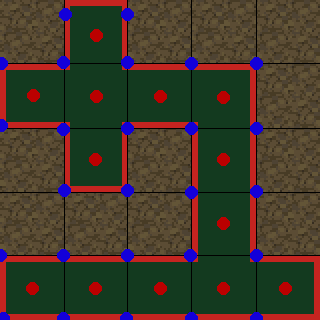
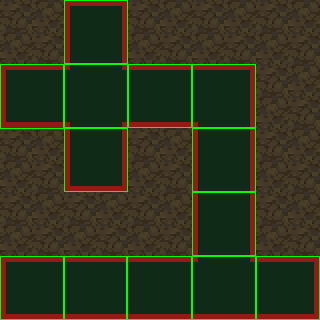
Fixed shit, changed figures, much wow.

diff --git a/sections/modules/generating_levels/generating_levels.tex b/sections/modules/generating_levels/generating_levels.tex
@@ -1,38 +1,39 @@
-In this chapter the process of loading individual levels will be explained. This involves loading the level, encoded as an image in the PNG format, parsing values from this format, and finally placing tiles in the game world representing those values.
+In this chapter the process of loading individual levels will be explained.
+This involves loading the level, encoded as an image in the PNG format, parsing values from this format, and finally placing tiles in the game world representing those values.
 
 \section{Designing and loading levels}
 Level creation is an important aspect when developing a game, and for this project there are different elements to consider for the level creation workflow.
 \begin{itemize}
     \item The development process is agile, meaning the level should be easily modifiable to adapt to changes
     \item Game balancing, requiring the production of levels at a sufficient pace in order to quickly iterate on game balancing topics, such as strategies for a particular map layout
-    \item The project have no dedicated level designer that have the time allocated to finely tune and manually design levels
+    \item The project has no dedicated level designer whom we can allocate to finely tune and manually design levels
 \end{itemize}
-These elements sets up some different challenges to the project.  
-To keep up with potential changes a fast way to create levels is preferred for the following reasons:
+These elements sets up some different challenges to the project.
+To keep up with potential changes, a quick way to create levels is preferred for the following reasons:
 \begin{itemize}
-    \item Designing levels and placing gameobject in the Editor does not afford quick iterations, as required by our development process
+    \item Designing levels and placing gameobjects in the Editor does not afford quick iterations, as required by our development process
     \item The Editor does not afford easy refactoring of large levels, in that objects must be moved or replaced manually. \textit{Large} is relative, but for our purposes it could be upwards +10.000 gameobjects
-    \item Individual levels would have to reside in individual \texttt{Scene} files, increasing the complexity of collaboration since scenefiles does not  automatically merge correct in version controls
+    \item Individual levels would have to reside in individual \texttt{Scene} files, increasing the complexity of collaboration since scenefiles does not  automatically merge correct in version control systems.
 \end{itemize}
 
-While there are different approaches for circumventing the above inconveniences, our solution is to encode the layout of each individual level in an external file which is then loaded and interpreted. 
-Historically, game developers have often used this approach, usually encoded in some in-house binary format. \todoanders{Brian, add ref here}
-While customized in-house format would give more flexibility, but it would also give more work if the players should have the option to create their own levels, as a custom level editor would be necessary.
+While there are different approaches for circumventing the above inconveniences, our solution is to encode the layout of each individual level in an external file which is then loaded and interpreted.
+Historically, game developers have often used this approach, usually encoded in some in-house binary format~\cite{quake-bsp-format}.
+While customized in-house format would offer significant flexibility, but it would also result in additional development, if the players should have the option to create their own levels, as a custom level editor would be necessary.
 Instead the choice of encoding the map in the PNG (Portable Network Graphics) format was made for the following reasons:
 \begin{itemize}
     \item The PNG format is ubiquitous, in that there exists support for it almost anywhere, including in Unity3d - both in terms of API and the editor itself.
     \item It being ubiquitous means that we do not have to develop additional software in order to edit levels - most mainstream image editors support the PNG format.
     \item The PNG allows us to encode \textit{enough} information. 
-    	\textit{Enough} being relative, but each colorchannel for each individual pixel offers 1 \texttt{byte} of information. 
+    	\textit{Enough} being relative, but each colorchannel for each individual pixel offers 1 \texttt{byte} of information.
     	With each pixel being encoded with RGBA (red, green, blue and alpha) channels that gives us a total of 4 \texttt{bytes} of information, for each pixel.
 \end{itemize}
-Using the PNG format, it is only a matter of specifying \textit{what} a particular color should encode and interpreting that color when loading a level. 
+Using the PNG format, it is only a matter of specifying \textit{what} a particular color should encode and interpreting that color when loading a level.
 As an example, the following could specify how colors could be specified to encode information about a level:
 \begin{itemize}
     \item Black would be ground
     \item Green is grass
-    \item Red is building floor, and
-    \item Yellow being building walls.
+    \item Red is building floor
+    \item And yellow being building walls.
 \end{itemize}
 One obvious shortcoming from the above example is the lack of variation - maybe one would like to be able to specify different types of walls or floors. This could however be mitigated by either specifying more colors or by interpreting a color differently depending on the context of the pixel.
 To introduce variety into our levels, we use the latter approach for some colors, which we will describe later in this chapter.
@@ -42,7 +43,7 @@ Having decided on the format and encoded color values, we can design levels such
 
 \begin{figure}[H]
     \centering
-    \includegraphics{figures/generating_levels/map.png}
+    \includegraphics[width=1\textwidth]{figures/generating_levels/map.png}
     \caption{A PNG image encoding a level}
     \label{fig:png_map}
 \end{figure}
@@ -120,48 +121,48 @@ The color values can then be interpreted into distinct integer values in a two-d
     \end{tabular}
     \caption{Interpreting a PNG map image into a two-dimensional array}\label{fig:png_to_array} 
 \end{figure}
-Values are then further separated into a new two-dimensional array consisting of only each individual value, as illustrated on the right side in Figure \ref{fig:png_to_array}.  
+Values are then further separated into a new two-dimensional array consisting of only each individual value, as illustrated on the right side in Figure \ref{fig:png_to_array}.
 The data within those arrays are what we use to generate tiles and some game entities within the gameworld.
 
 \section{Generating level backdrop}
 As explained previously, our game is a top-down 2D action game.
 Important to note is the top-down 2D aspect of it when we are to generate our levels.
-A historical and still prevalent technique for 2D games, is using a tiling approach for the layout of both the backdrop of the level and entities within it. 
+A historical, and still prevalent technique for 2D games, is using a tiling approach for the layout of both the backdrop of the level and entities within it.
 Several different approaches to tiling have been used in games, including squares, isometric and hexagonal tiles.
 Figures~\ref{fig:civ-1_square},~\ref{fig:civ-2_iso}~and~\ref{fig:wesnoth_hex}
 show examples of games using each of the mentioned techniques of tiling.
 
 \begin{figure}[H]
     \centering
-    \includegraphics[scale=0.4]{figures/generating_levels/civ-1_square.png}
-    \caption{Civilizations 1, using squares as tiles}\label{fig:civ-1_square} 
+    \includegraphics[width=0.5\textwidth]{figures/generating_levels/civ-1_square.png}
+    \caption{Civilizations 1, using squares as tiles}\label{fig:civ-1_square}
 \end{figure}
 
 \begin{figure}[H]
     \centering
-    \includegraphics[scale=0.4]{figures/generating_levels/civ-2_iso.png}
-    \caption{Civilizations 2, using the isometric technique}\label{fig:civ-2_iso} 
+    \includegraphics[width=0.5\textwidth]{figures/generating_levels/civ-2_iso.png}
+    \caption{Civilizations 2, using the isometric technique}\label{fig:civ-2_iso}
 \end{figure}
 
 \begin{figure}[H]
     \centering
-    \includegraphics[scale=0.4]{figures/generating_levels/wesnoth_hex.png}
-    \caption{Battle of Wesnoth, using a hexagonal tiling technique}\label{fig:wesnoth_hex} 
+    \includegraphics[width=0.5\textwidth]{figures/generating_levels/wesnoth_hex.png}
+    \caption{Battle of Wesnoth, using a hexagonal tiling technique}\label{fig:wesnoth_hex}
 \end{figure}
 Since the individual techniques mostly impact the visual appearance of the game, the underlying data structures remain the same.
 We have chosen to apply the most straightforward tiling technique: square tiles.
 \\
 \\
-The first naive implementation that we prototyped, was to iterate through the two-dimensional map and place tiles corresponding to the values, with tiles being \texttt{sprites} in the gameworld. 
-In Unity sprites needs to be assigned a \texttt{sprite renderer} component which in turn needs to be attached a \texttt{gameobject}. 
-This effectively means that for each tile an instantiation a gameobject has to be made, which easily can get expensive in computation.
+The first naive implementation that we prototyped, was to iterate through the two-dimensional map and place tiles corresponding to the values, with tiles being \texttt{sprites} in the gameworld.
+In Unity sprites needs to be assigned a \texttt{sprite renderer} component which in turn needs to be attached a \texttt{gameobject}.
+This effectively means that for each tile, an instantiation a gameobject has to be made, which easily can get expensive in computation.
 
-Since tiles exhibit no particular behavior, it seems excessive to instantiate gameobjects for each tile. 
-Not only that, but we were experiencing performance implications on mobile devices using this method.  
-It is possible to substantially reduce the gameobjects required to be instantiated by \textit{grouping} similar areas into bigger tiles. 
-To do this, the map needs to be grouped such that large area consisting of only one type will be marked.
-The groups then \textit{blit} the texture associated with that type in a tile-pattern, onto a bigger texture.  
-There is a technical limit to this technique however, as texture-resolutions are limited by hardware. 
+Since tiles exhibit no particular behavior, it seems excessive to instantiate gameobjects for each tile.
+Not only that, but we were experiencing performance implications on mobile devices using this method.
+It is possible to substantially reduce the gameobjects required to be instantiated by \textit{grouping} similar areas into bigger tiles.
+To do this, the map needs to be grouped such that large area consisting of only one type will be marked with a similar value in the data structure.
+The groups are then \textit{blitted} together in a tile-pattern to form a larger texture.
+There is a technical limit to this technique however, as texture-resolutions are limited by hardware. For our implementation, we limit the resolution of larger textures to $1024 x 1024$, as that would be within the bounds of the capabilities of the target hardware.
 A comparison of the result of the two techniques can be seen in figure~\ref{fig:grouped_tiling_comparison}.
 \begin{figure}[H]
     \centering
@@ -172,16 +173,19 @@ A comparison of the result of the two techniques can be seen in figure~\ref{fig:
     \end{tabular}
     \caption{(left) naive tiling, (right) grouping tiles into larger tiles}\label{fig:grouped_tiling_comparison}
 \end{figure}
-The blitting is performed during runtime whenever a map is loaded, but in order to avoid blitting the same texture more than once, a caching of the larger tiles to disk such that they can be loaded between subsequent runs of the application. 
-The performance overhead of blitting \textit{can} be significant on mobile devices, as the larger textures have to be uploaded to the GPU in order to reflect changes, and we did see improvements in that regard by caching the blitted textures.\todomichael{What were the improviements? Do we have any numbers? logs?}
+The computation involved in blitting textures together \textit{can} be significant on mobile devices, as the larger textures have to be uploaded to the GPU in order to reflect changes.
+The blitting is performed during runtime whenever a map is loaded, so in order to avoid blitting the same texture more than once, a caching of the larger textures to disk is performed, such that they can be loaded between subsequent runs of the application.
+By caching and loading already blitted textures to disk, we significantly reduced loading times on mobile devices.
+\todomichael{What were the improviements? Do we have any numbers? logs?}
+\todobrian{We did see improvements in shorter loading times. I can do measurements of this if you want to haz?}
 \\
 \\
 \textit{Transition} tiles between certain type of tiles, in particular between grass and ground, are desired.
 This technique is also used in the games seen in figures~\ref{fig:civ-1_square},~\ref{fig:civ-2_iso}~and~\ref{fig:wesnoth_hex}.
-To achieve this an adaptation of the \textit{Marching squares} algorithm is used, and marks a position in the map as a particular type, based on the values  of its neighbours. 
-A corresponding \textit{transition tile} is then blitted together, cached to disk in the same manner as grouped tiles, and assigned to it.
+To achieve this, an adaptation of the \textit{Marching squares} algorithm is used, and marks a position in the data structure as a particular type, based on the values of its neighbouring values~\cite{marching-squares}.
+A corresponding \textit{transition tile} is then blitted together, cached to disk in the same manner as grouped tiles, and assigned to the gameobject at that position.
 Figure~\ref{fig:transition_comparison} shows a comparison before and after integrating the algorithm.
-\todobrian{add ref for marching squares}
+\todobrian{reconsider ref for marching squares}
 
 \begin{figure}[H]
     \centering
@@ -197,8 +201,8 @@ Figure~\ref{fig:transition_comparison} shows a comparison before and after integ
 Placing walls involves both placing them as textured tiles within the gameworld, and placing \textit{colliders} such that moving object in the game cannot move through them.
 
 \subsection{Placing wall sprites}
-A naive implementation for placing wall sprites within the gameworld is to place a gameobject with the texture of a wall. 
-However, the walls should fit seamlessly together as a homogeneous unit. 
+A naive implementation for placing wall-sprites within the gameworld is to place a gameobject with the texture of a wall.
+However, the walls should fit seamlessly together as a homogeneous unit.
 This is done using an adaptation of the \textit{Marching squares}, following the same procedure as with transitional tiles between grass and ground.
 Firstly it is detected if a wall is a ``stump'', a regular vertical or horizontal middle section or a t-section. 
 Diagonal walls are treated as ''stumps'', so our marching squares adaptation only considers adjacent tiles at 90-degree angles.
@@ -216,34 +220,34 @@ Figure~\ref{fig:wall_comparison} illustrates an example of placing walls where t
 
 \begin{figure}[H]
     \centering
-    \includegraphics[width=1\textwidth]{figures/generating_levels/walls_ingame.png}
+    \includegraphics[width=0.5\textwidth]{figures/generating_levels/walls_ingame.png}
     \caption{In-game example of connected walls}\label{fig:walls_ingame} 
 \end{figure}
 
 \subsection{Placing wall colliders}
-For wall colliders it is desired to \textit{translate} the contour of walls into gameobjects assigned a collide-able component in the gameworld.
+For wall colliders it is desired to find the contour of walls into gameobjects assigned a collide-able component in the gameworld.
 The first naive implementation is to place a square collider (regular \texttt{Collider2D}) for each wall tile.
-The positions for these colliders is shown as red dots in figure~\ref{fig:wall_with_vertices}.
+An example of placing colliders at each wall tile can be seen in figure~\ref{fig:wall_with_vertices}.
 This resulted in the unfortunate behaviour that collisions from rigidbodies - the player and enemies - behaved unreliable and rigid bodies would ``bounce off'' the walls whenever they would be ``between'' two collider sections.
 \\
-The next idea is to find offsets for contour vertices for each tile, and placing \texttt{Polygon Collider2D}, contour vertices shown as blue in figure~\ref{fig:wall_with_vertices}. 
+A solution to this problem is to place \texttt{Polygon Collider2D}s, using the contour vertices of the colliders shown in figure~\ref{fig:wall_with_vertices}. 
 However this reveals another problem: the resulting polygon is concave.
 This means that the polygon cannot \textit{easily} be constructed only knowing the vertices.
 Our solution was to use an adaptation of \textit{flood fill} to first find connected vertical and then horizontal wall sections.
-From the algorithm, we can find vertices for and construct concave polygons which are \textit{larger} than single wall sections.
-This significantly reduces the number of colliders necessary, almost eliminates the mentioned problem of unreliable behavior for rigidbodies colliding with walls.
+From the algorithm, we can find contour vertices for convex polygons which are \textit{larger} than single wall sections.
+This significantly reduces the number of colliders necessary and eliminating the mentioned problem of unreliable behavior for rigidbodies colliding with walls.
 An \textit{optimal} solution would be to construct a concave polygon from the vertices, which would require finding all
 contour vertices \textit{and} the order in which they should connected when constructing the polygon.
 The result of our \textit{flood fill} approach can be seen in figure~\ref{fig:wall_with_convex}.
 
 \begin{figure}[H]
     \centering
-    \includegraphics[width=1\textwidth]{figures/generating_levels/wall_with_vertices.png}
-    \caption{Finding contour vertices}\label{fig:wall_with_vertices} 
+    \includegraphics[width=0.5\textwidth]{figures/generating_levels/wall_with_vertices.png}
+    \caption{Placing colliders at tile positions}\label{fig:wall_with_vertices} 
 \end{figure}
 
 \begin{figure}[H]
     \centering
-    \includegraphics[width=1\textwidth]{figures/generating_levels/wall_with_convex.png}
+    \includegraphics[width=0.5\textwidth]{figures/generating_levels/wall_with_convex.png}
     \caption{Finding connected concave polygons using flood fill}\label{fig:wall_with_convex} 
 \end{figure}
